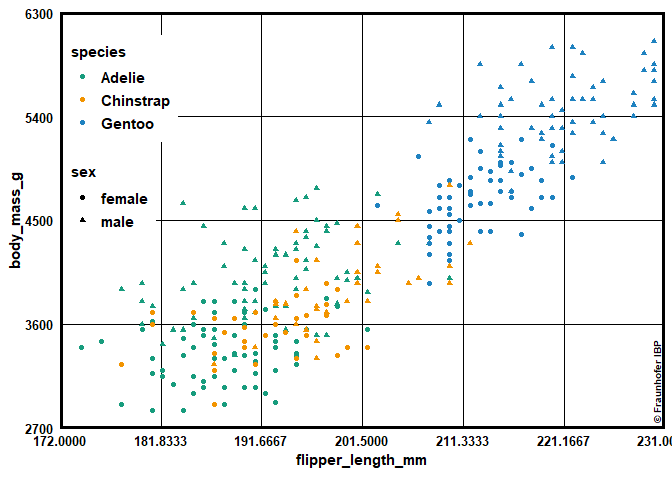
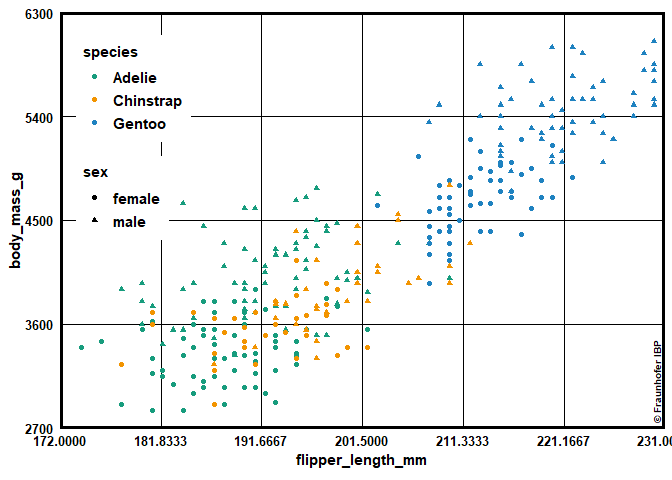
adjusted some plots

Changed region(s): [[0.0938, 0.0938, 0.2812, 0.2812], [0.125, 0.4062, 0.25, 0.5], [0.0938, 0.3438, 0.1562, 0.375]]

diff --git a/README.md b/README.md
@@ -61,7 +61,7 @@ palmerpenguins::penguins %>%
 {
 ggplot(data = ., aes(x=flipper_length_mm, y = body_mass_g)) +
   geom_point(aes(colour=species, shape = sex)) +
-  theme_ibp(y_pos_leg = 0.7) +
+  theme_ibp(y_pos_leg = 0.7, x_pos_leg = 0.12) +
   scale_x_ibp_cont() +
   scale_y_ibp_cont() +
   scale_colour_ibp() +
@@ -113,7 +113,7 @@ palmerpenguins::penguins %>%
 {
 ggplot(data = ., aes(x=bill_length_mm, y = bill_depth_mm)) +
   geom_point(aes(colour=species, shape = sex)) +
-  theme_ibp(y_pos_leg = 0.7, aspect = 5/9.5) +
+  theme_ibp(y_pos_leg = 0.65, aspect = 5/9.5) +
   scale_x_ibp_cont(limits = c(32,60), n = 8) +
   scale_y_ibp_cont(limits = c(12.5,22)) +
   scale_colour_ibp() +
